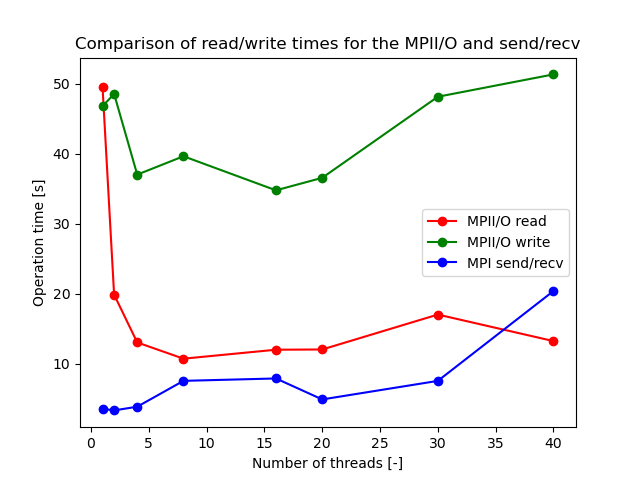
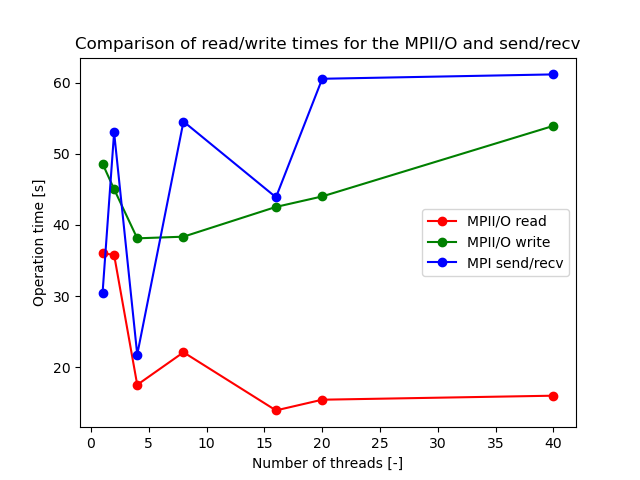
Update figures for Task 7

diff --git a/lab08/draw.py b/lab08/draw.py
@@ -33,14 +33,12 @@ print(mpi_read)
 # X, Y = (list(x) for x in zip(*sorted(zip(X,Y), key=lambda pair: pair[0])))
 
 
-plt.plot(X,t_read,'o-',color='r')
-plt.plot(X,t_write,'o-',color='g')
-plt.plot(X,mpi_read,'o-', color='b')
-plt.title("Computational time as function of number of threads used") # set title for the graph
-plt.legend(['MPII/O read','MPII/O write','MPI send/recv'])
-plt.title("Comparison of read/write times for the MPII/O and send/recv") # set title for the graph
+plt.plot(X,bw_read,'o-',color='r')
+plt.plot(X,bw_write,'o-',color='g')
+plt.legend(['MPII/O read','MPII/O write'])
+plt.title("Bandwidth for read and write with MPII/O") # set title for the graph
 plt.xlabel("Number of threads [-]") # set x label title
-plt.ylabel("Operation time [s]") # set y label title
-plt.savefig("times.png", transparent=False, facecolor="white") # save plot as png with white background
+plt.ylabel("Bandwidth [MB/s]") # set y label title
+plt.savefig("bandwidth.png", transparent=False, facecolor="white") # save plot as png with white background
 
 
